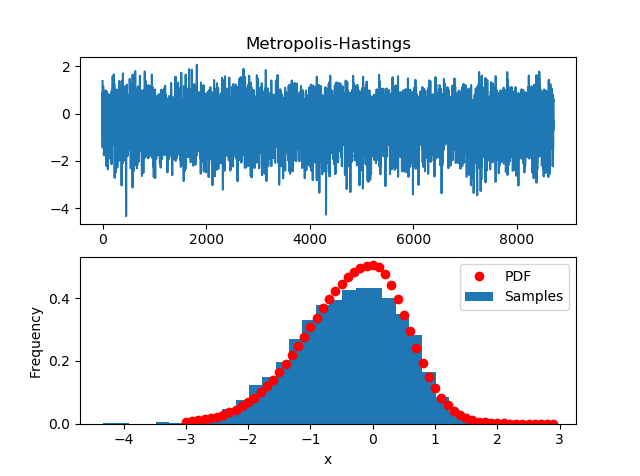
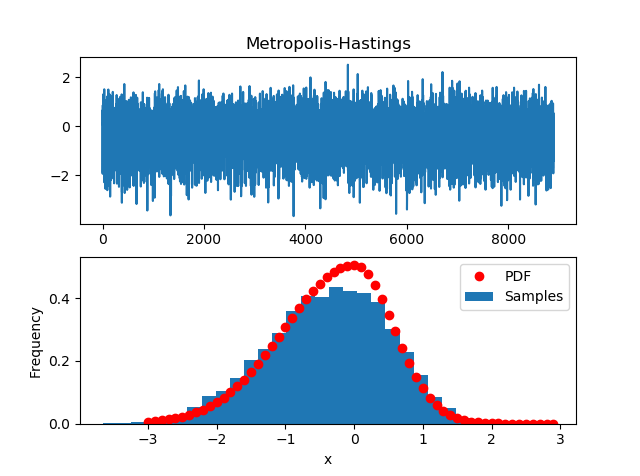
update mh algorithm by transforming to high precision

diff --git a/Metropolis_Hastings_Algorithm/metropolis_hestings.py b/Metropolis_Hastings_Algorithm/metropolis_hestings.py
@@ -9,16 +9,26 @@ import numpy as np
 from matplotlib.pylab import *
 from scipy.stats import norm
 import matplotlib.pyplot as plt
+import mpmath
 
 
 def Asymmetric_Gassian_Distribution(xjk, mu_jk, s_ljk, s_rjk):
+    '''
+    the sampling distribution formula
+    use mpmath package to calculate by high precision
+    '''
     if xjk < mu_jk:
-        return np.sqrt(2/np.pi)/(np.power(s_ljk, -0.5) + np.power(s_rjk, -0.5)) * np.exp(- 0.5 * s_ljk * (xjk- mu_jk)**2)
+        return mpmath.sqrt(2/mpmath.pi)/(mpmath.power(s_ljk, -0.5) + mpmath.power(s_rjk, -0.5))\
+               * mpmath.exp(- 0.5 * s_ljk * (xjk- mu_jk)**2)
     else:
-        return np.sqrt(2/np.pi)/(np.power(s_ljk, -0.5) + np.power(s_rjk, -0.5)) * np.exp(- 0.5 * s_rjk * (xjk- mu_jk)**2)
-
+        return mpmath.sqrt(2/mpmath.pi)/(mpmath.power(s_ljk, -0.5) + mpmath.power(s_rjk, -0.5))\
+               * mpmath.exp(- 0.5 * s_rjk * (xjk- mu_jk)**2)
 
 def Metropolis_Hastings_Sampling_AGD(mu_jk, s_ljk, s_rjk):
+    '''
+    the metroplis hasting algorithm
+    currently, the algorithm use random walk method to transform Metropolis Hastings to Metropolis algorithm
+    '''
     n = 25000
     x = norm.rvs(0, 2.5, 1)[0]
     vec = []
